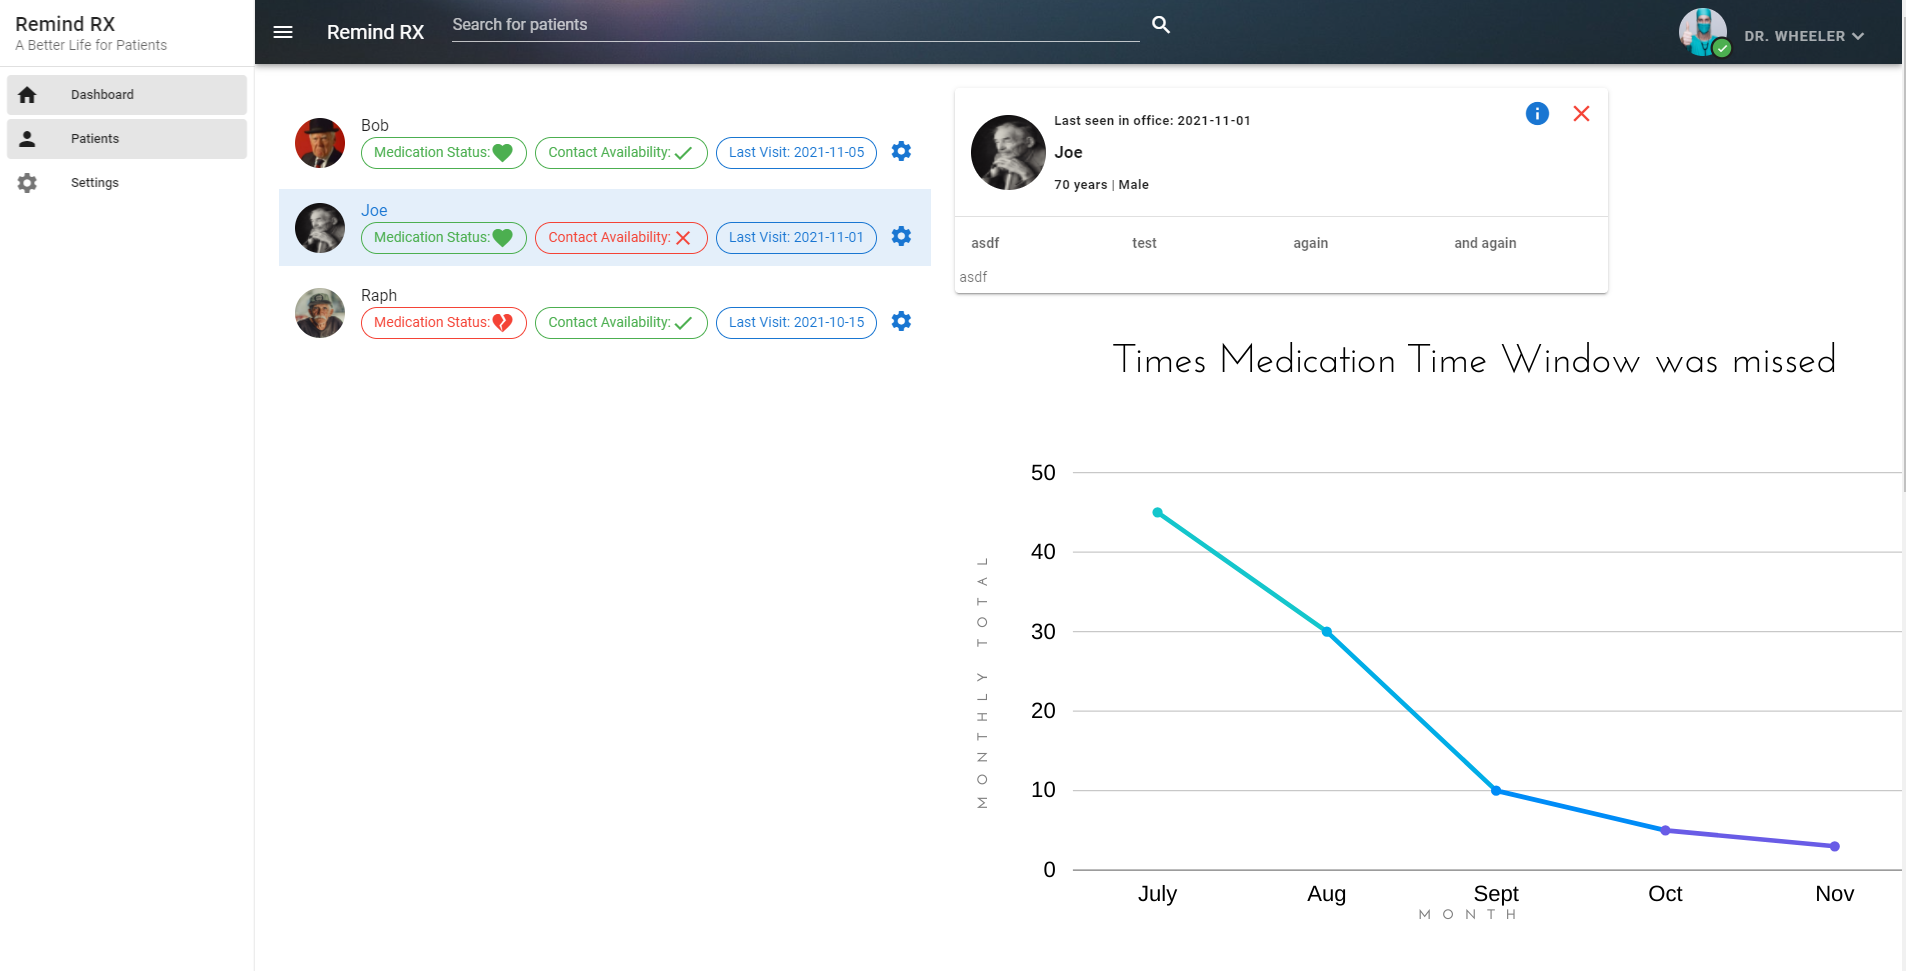
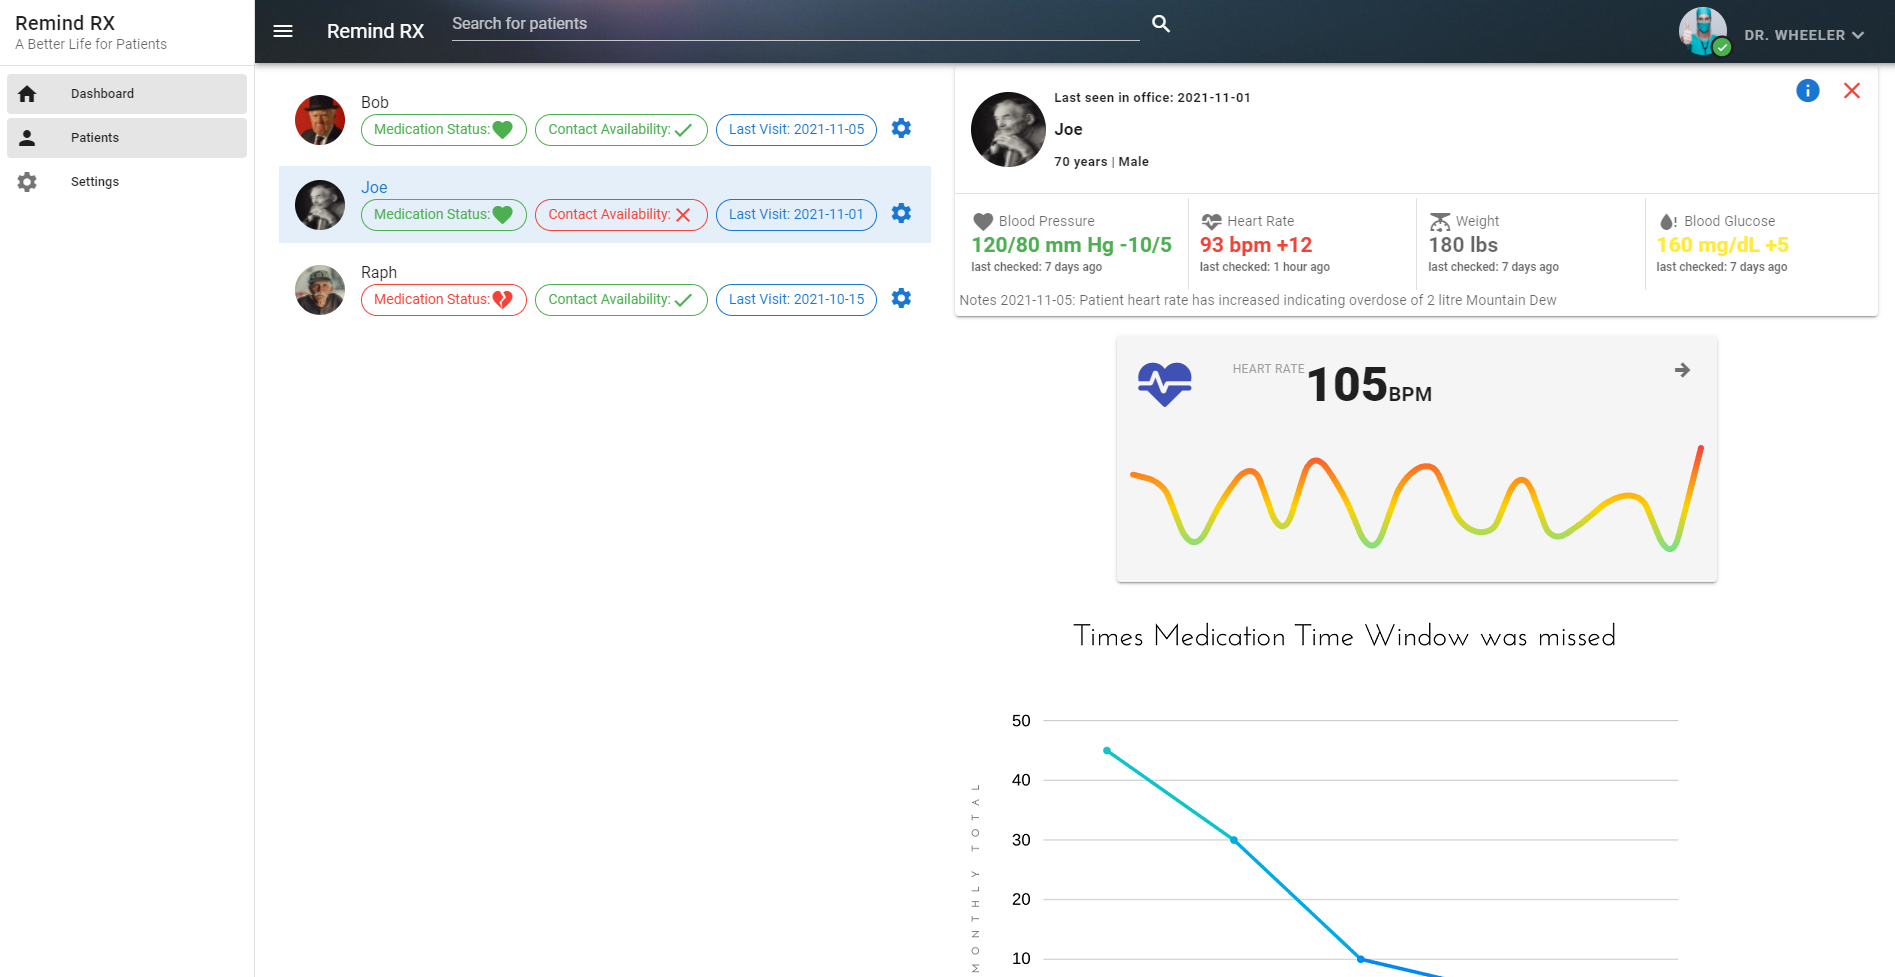
Added HR Graph

diff --git a/src/views/Tasks.vue b/src/views/Tasks.vue
@@ -149,7 +149,7 @@
       LEFT SIDE
       ################# -->
         <!-- <v-spacer></v-spacer> -->
-        <v-col cols="5">
+        <v-col cols="7">
           <v-card>
             <v-card-title>
               <v-avatar size="75" class="mr-2">
@@ -180,24 +180,86 @@
             <v-card-text>
               <v-row>
                 <v-col>
-                  <h4>asdf</h4>
+                  <v-icon>mdi-cards-heart</v-icon>
+                  Blood Pressure
+                  <h2 class="green--text">120/80 mm Hg -10/5</h2>
+                  <h5>last checked: 7 days ago</h5>
                 </v-col>
+                <v-divider vertical></v-divider>
                 <v-col>
-                  <h4>test</h4>
+                  <v-icon>mdi-heart-pulse</v-icon>
+                  Heart Rate
+                  <h2 class="red--text">93 bpm +12</h2>
+                  <h5>last checked: 1 hour ago</h5>
                 </v-col>
+                <v-divider vertical></v-divider>
                 <v-col>
-                  <h4>again</h4>
+                  <v-icon>mdi-scale</v-icon>
+                  Weight
+                  <h2>180 lbs</h2>
+                  <h5>last checked: 7 days ago</h5>
                 </v-col>
+                <v-divider vertical></v-divider>
                 <v-col>
-                  <h4>and again</h4>
+                  <v-icon>mdi-water-alert</v-icon>
+                  Blood Glucose
+                  <h2 class="yellow--text">160 mg/dL +5</h2>
+                  <h5>last checked: 7 days ago</h5>
                 </v-col>
               </v-row>
               <v-row>
-                asdf
+                Notes 2021-11-05: Patient heart rate has increased indicating
+                overdose of 2 litre Mountain Dew
               </v-row>
             </v-card-text>
           </v-card>
 
+          <!-- #########################
+          STUFF ADDED HERE 
+          Heart Rate graph from Vuetify.js docs-->
+
+          <v-card class="mx-auto mt-5" color="grey lighten-4" max-width="600">
+            <v-card-title>
+              <v-icon
+                :color="checking ? 'red lighten-2' : 'indigo'"
+                class="mr-12"
+                size="64"
+                @click="takePulse"
+              >
+                mdi-heart-pulse
+              </v-icon>
+              <v-row align="start">
+                <div class="text-caption grey--text text-uppercase">
+                  Heart rate
+                </div>
+                <div>
+                  <span
+                    class="text-h3 font-weight-black"
+                    v-text="avg || '—'"
+                  ></span>
+                  <strong v-if="avg">BPM</strong>
+                </div>
+              </v-row>
+
+              <v-spacer></v-spacer>
+
+              <v-btn icon class="align-self-start" size="28">
+                <v-icon>mdi-arrow-right-thick</v-icon>
+              </v-btn>
+            </v-card-title>
+
+            <v-sheet color="transparent">
+              <v-sparkline
+                :key="String(avg)"
+                :smooth="16"
+                :gradient="['#f72047', '#ffd200', '#1feaea']"
+                :line-width="3"
+                :value="heartbeats"
+                auto-draw
+                stroke-linecap="round"
+              ></v-sparkline>
+            </v-sheet>
+          </v-card>
           <v-list>
             <!-- DO STUFF HERE FOR LISTING MED TIMES -->
           </v-list>
@@ -219,16 +281,21 @@
 <script>
 import TaskList from "@/components/Task-List.vue";
 
+const exhale = (ms) => new Promise((resolve) => setTimeout(resolve, ms));
+
 export default {
   components: { TaskList },
   name: "Home",
   data() {
     return {
-      dialog: false,
-      showPicker: false,
-      newTaskTitle: "",
-      newDate: "",
-      editingTaskId: 0,
+      checking: false,
+      heartbeats: [],
+
+      // dialog: false,
+      // showPicker: false,
+      // newTaskTitle: "",
+      // newDate: "",
+      // editingTaskId: 0,
       patientSelected: 1,
       patients: [
         {
@@ -254,32 +321,41 @@ export default {
         },
       ],
 
-      tasks: [
-        {
-          id: 1,
-          title: "Eat soup",
-          finished: false,
-          due: new Date().toISOString().substr(0, 10),
-        },
+      // tasks: [
+      //   {
+      //     id: 1,
+      //     title: "Eat soup",
+      //     finished: false,
+      //     due: new Date().toISOString().substr(0, 10),
+      //   },
 
-        {
-          id: 2,
-          title: "Hit the vape",
-          finished: false,
-          due: new Date().toISOString().substr(0, 10),
-        },
+      //   {
+      //     id: 2,
+      //     title: "Hit the vape",
+      //     finished: false,
+      //     due: new Date().toISOString().substr(0, 10),
+      //   },
 
-        {
-          id: 3,
-          title: "Get back to work",
-          finished: false,
-          due: new Date().toISOString().substr(0, 10),
-        },
-      ],
+      //   {
+      //     id: 3,
+      //     title: "Get back to work",
+      //     finished: false,
+      //     due: new Date().toISOString().substr(0, 10),
+      //   },
+      // ],
     };
   },
 
   computed: {
+    avg() {
+      const sum = this.heartbeats.reduce((acc, cur) => acc + cur, 0);
+      const length = this.heartbeats.length;
+
+      if (!sum && !length) return 0;
+
+      return Math.ceil(sum / length);
+    },
+
     currentPatient() {
       return this.patients.filter((patient) => {
         return patient.id == this.patientSelected;
@@ -287,7 +363,24 @@ export default {
     },
   },
 
+  created() {
+    this.takePulse(false);
+  },
+
   methods: {
+    heartbeat() {
+      return Math.ceil(Math.random() * (120 - 80) + 80);
+    },
+    async takePulse(inhale = true) {
+      this.checking = true;
+
+      inhale && (await exhale(1000));
+
+      this.heartbeats = Array.from({ length: 20 }, this.heartbeat);
+
+      this.checking = false;
+    },
+
     sortByDue: function() {
       this.tasks.sort((a, b) => {
         if (a.due > b.due) {
@@ -298,50 +391,50 @@ export default {
       });
     },
 
-    addTask() {
-      this.dialog = false;
-      if (this.newTaskTitle != "") {
-        let newTask = {
-          id: Date.now(),
-          title: this.newTaskTitle,
-          finished: false,
-          due: new Date().toISOString().substr(0, 10),
-        };
-        this.tasks.push(newTask);
-        this.newTaskTitle = "";
-      }
-    },
+    // addTask() {
+    //   this.dialog = false;
+    //   if (this.newTaskTitle != "") {
+    //     let newTask = {
+    //       id: Date.now(),
+    //       title: this.newTaskTitle,
+    //       finished: false,
+    //       due: new Date().toISOString().substr(0, 10),
+    //     };
+    //     this.tasks.push(newTask);
+    //     this.newTaskTitle = "";
+    //   }
+    // },
 
-    deleteTask(id) {
-      console.log("id: ", id);
-      this.tasks = this.tasks.filter((task) => task.id !== id);
-    },
+    // deleteTask(id) {
+    //   console.log("id: ", id);
+    //   this.tasks = this.tasks.filter((task) => task.id !== id);
+    // },
 
-    editTask(id) {
-      this.editingTaskId = id;
-      console.log("id: ", id);
-      this.showPicker = true;
-    },
+    // editTask(id) {
+    //   this.editingTaskId = id;
+    //   console.log("id: ", id);
+    //   this.showPicker = true;
+    // },
 
-    updateTask() {
-      let currentTask = this.tasks.filter(
-        (task) => task.id === this.editingTaskId
-      );
-      this.tasks = this.tasks.filter((task) => task.id !== this.editingTaskId);
-      currentTask[0].due = this.newDate;
-      this.tasks.push(currentTask[0]);
-      this.showPicker = false;
-      this.sortByDue();
-    },
+    // updateTask() {
+    //   let currentTask = this.tasks.filter(
+    //     (task) => task.id === this.editingTaskId
+    //   );
+    //   this.tasks = this.tasks.filter((task) => task.id !== this.editingTaskId);
+    //   currentTask[0].due = this.newDate;
+    //   this.tasks.push(currentTask[0]);
+    //   this.showPicker = false;
+    //   this.sortByDue();
+    // },
 
-    clickMe() {
-      this.dialog = false;
-      this.newTaskTitle = "";
-    },
+    // clickMe() {
+    //   this.dialog = false;
+    //   this.newTaskTitle = "";
+    // },
 
-    include() {
-      return [document.querySelector(".included")];
-    },
+    // include() {
+    //   return [document.querySelector(".included")];
+    // },
   },
 };
 </script>
